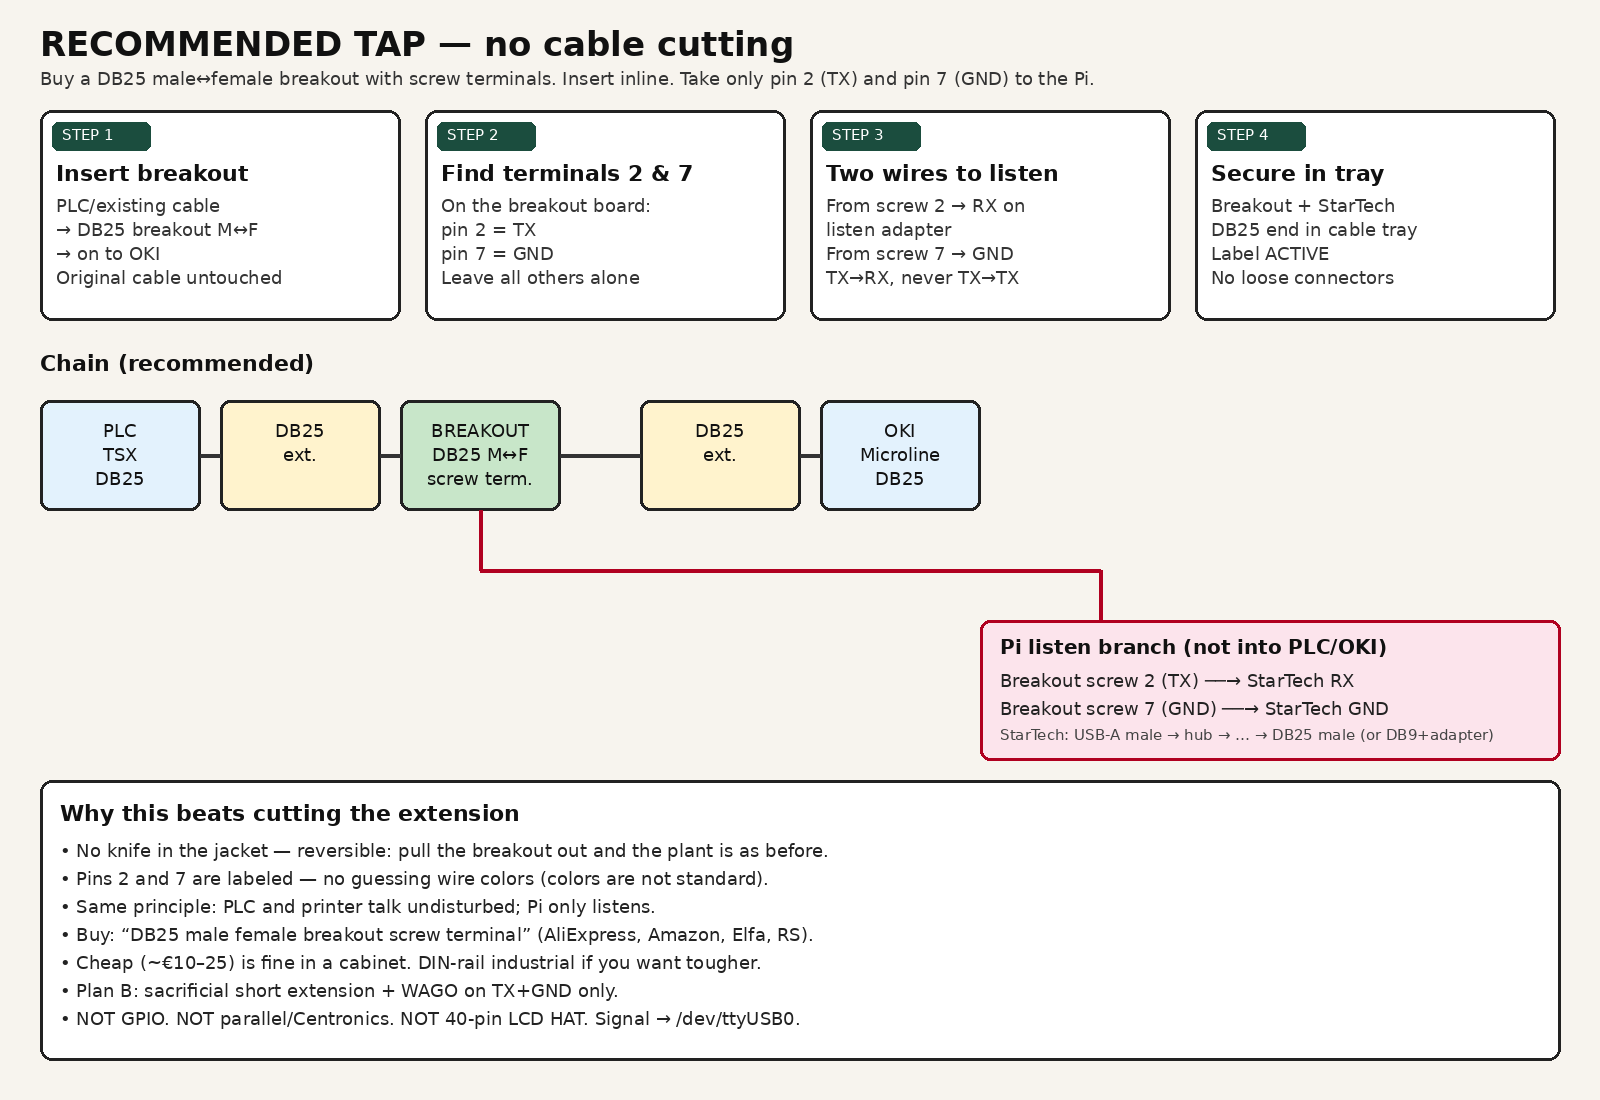
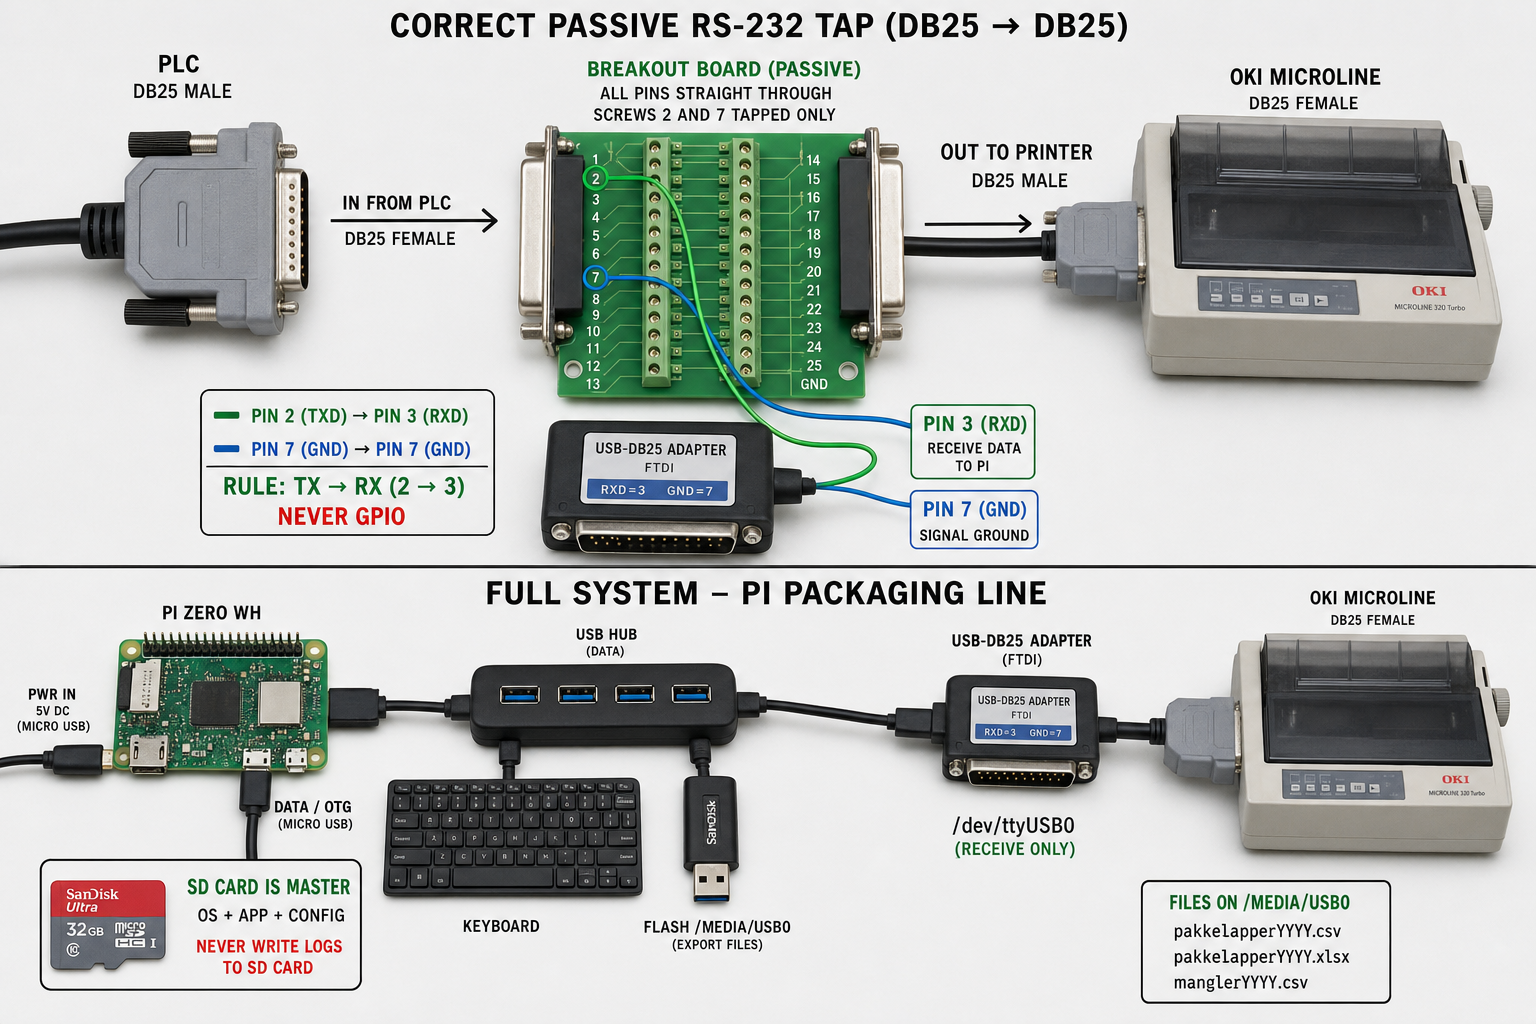
Foto-realistiske tapp-plakater etter Claude/Gemini-fasit
Breakout-metoden med nesten-ekte komponenter: PLS→breakout→OKI,
skrue 2→RX(3), 7→GND(7), sjekkliste og full Pi-arkitektur.

diff --git a/docs/no/HANDOFF-CLAUDE.md b/docs/no/HANDOFF-CLAUDE.md
@@ -168,7 +168,9 @@ Viktige filer:
 
 Hovedbildene ligger også inne i §2. Her er full liste med filsti:
 
-### Fasit (2026-07-24)
+### Fasit (2026-07-25) — foto-realistisk stil
+
+Claude/Gemini-innhold (breakout, **2→3 / 7→7**) tegnet om med nesten-ekte komponentfoto.
 
 **passiv-rs232-tapp.png** — hovedplakat breakout + systemarkitektur  
 
